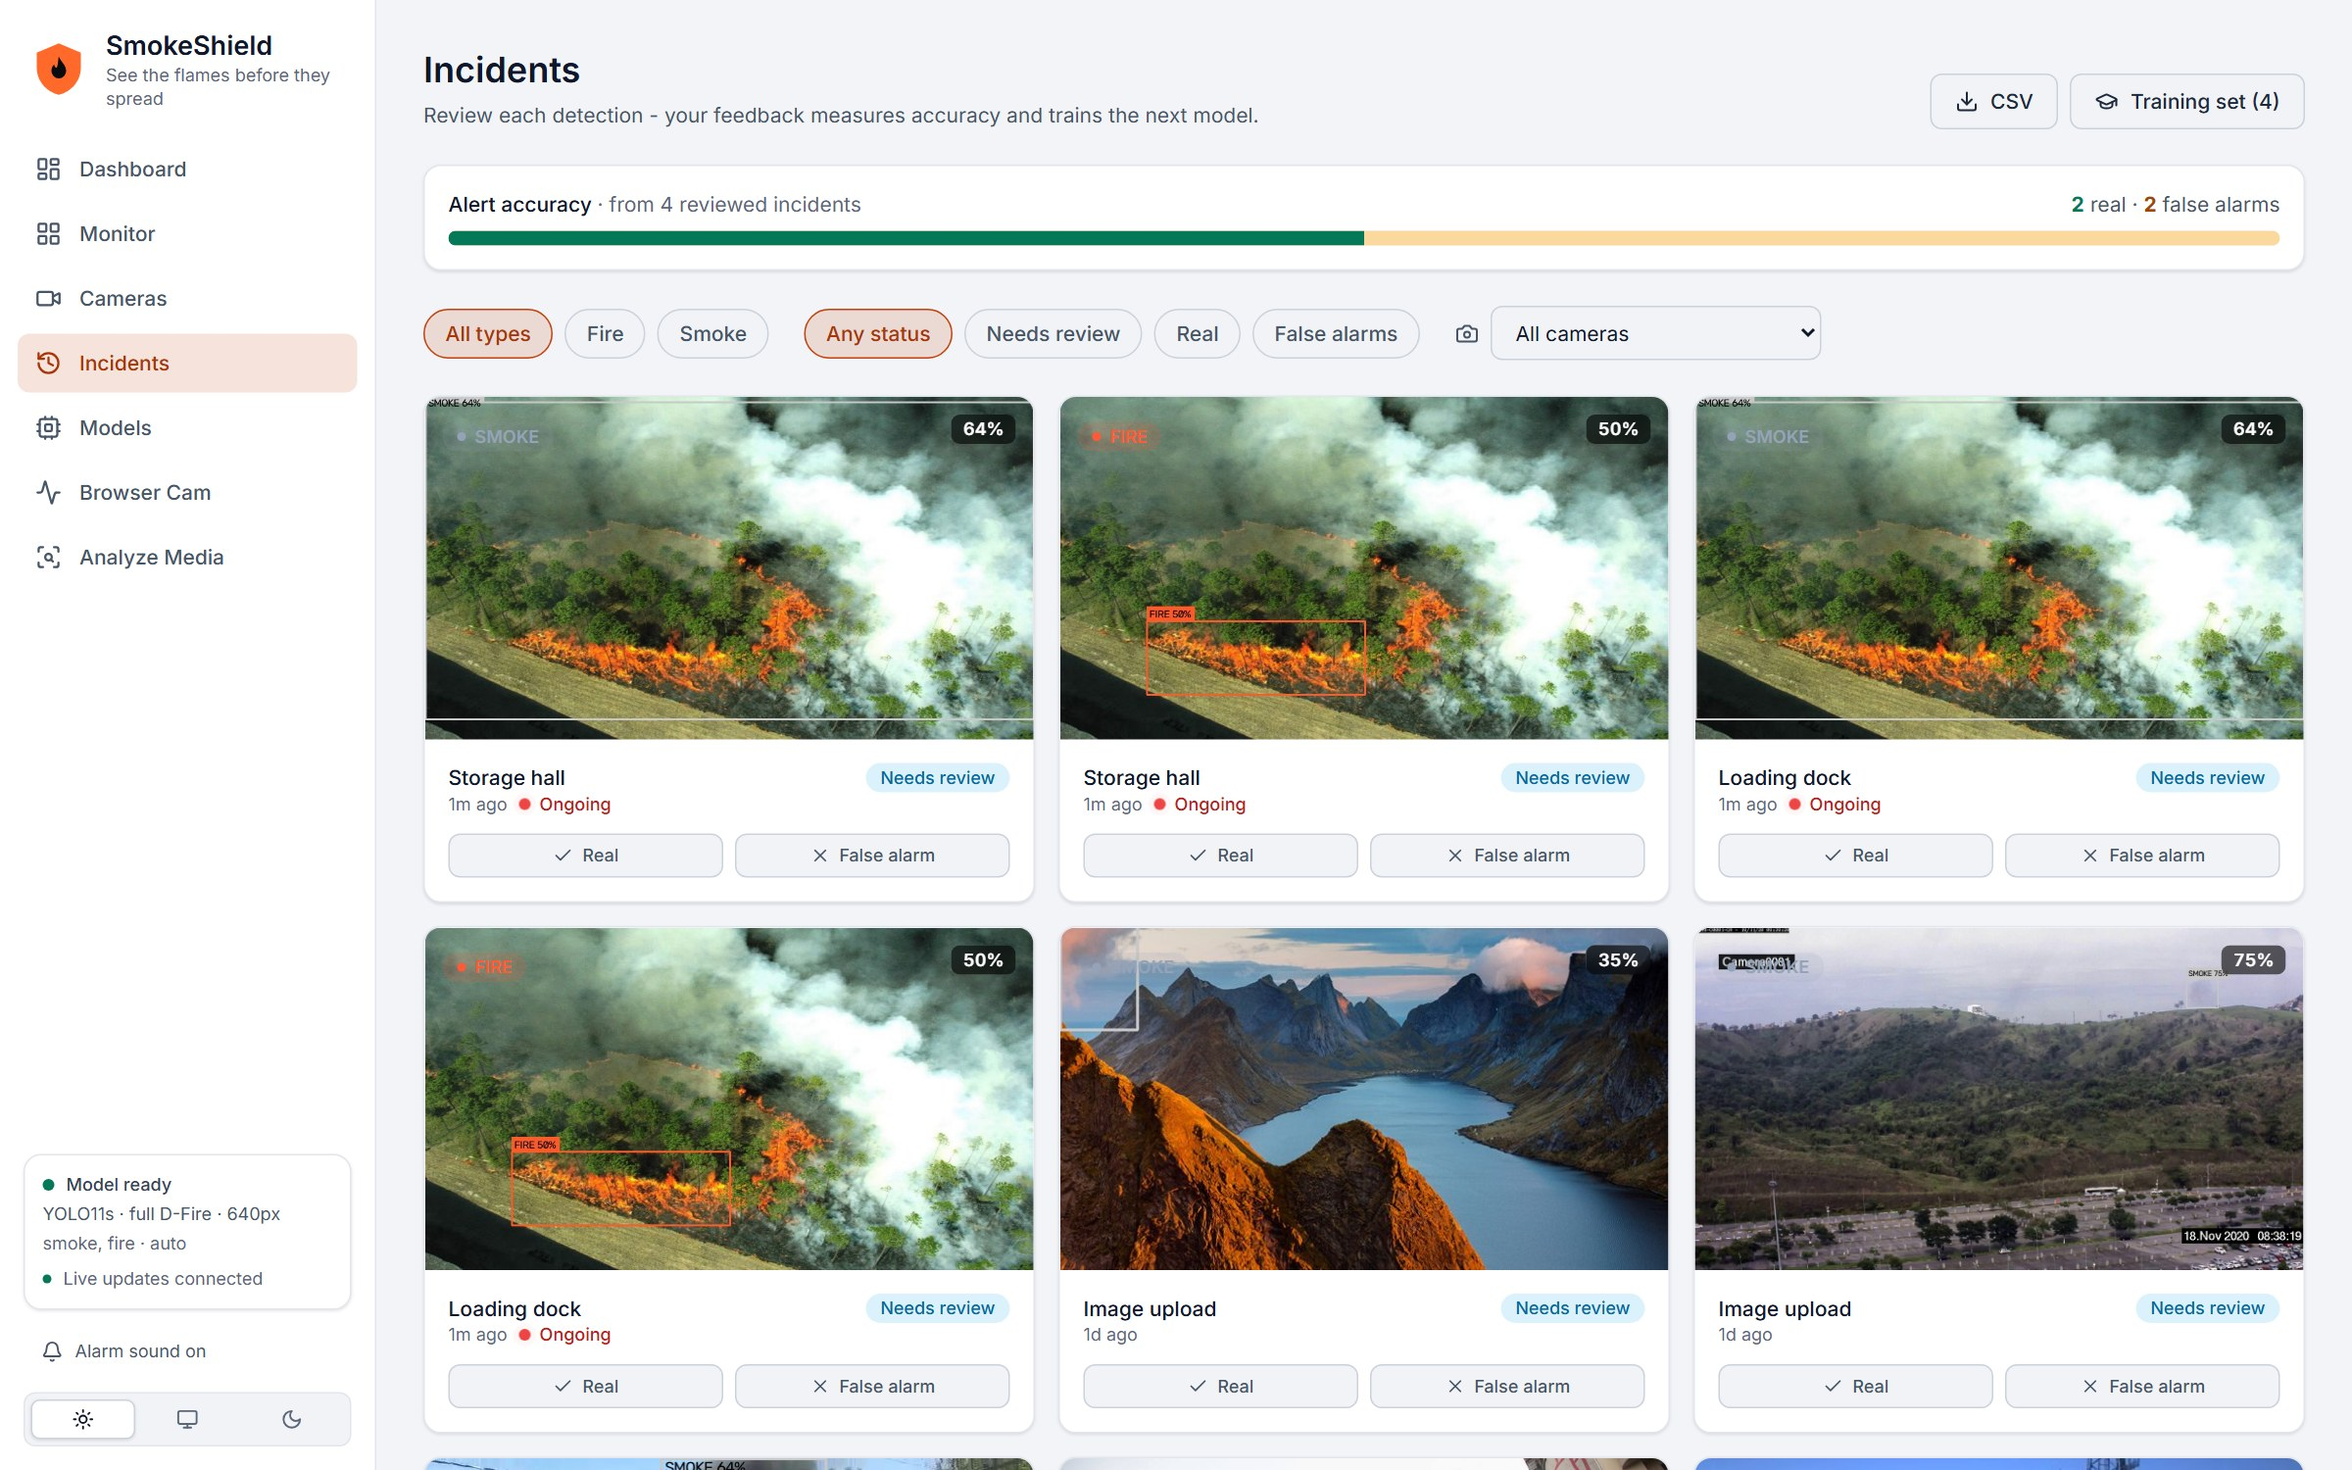
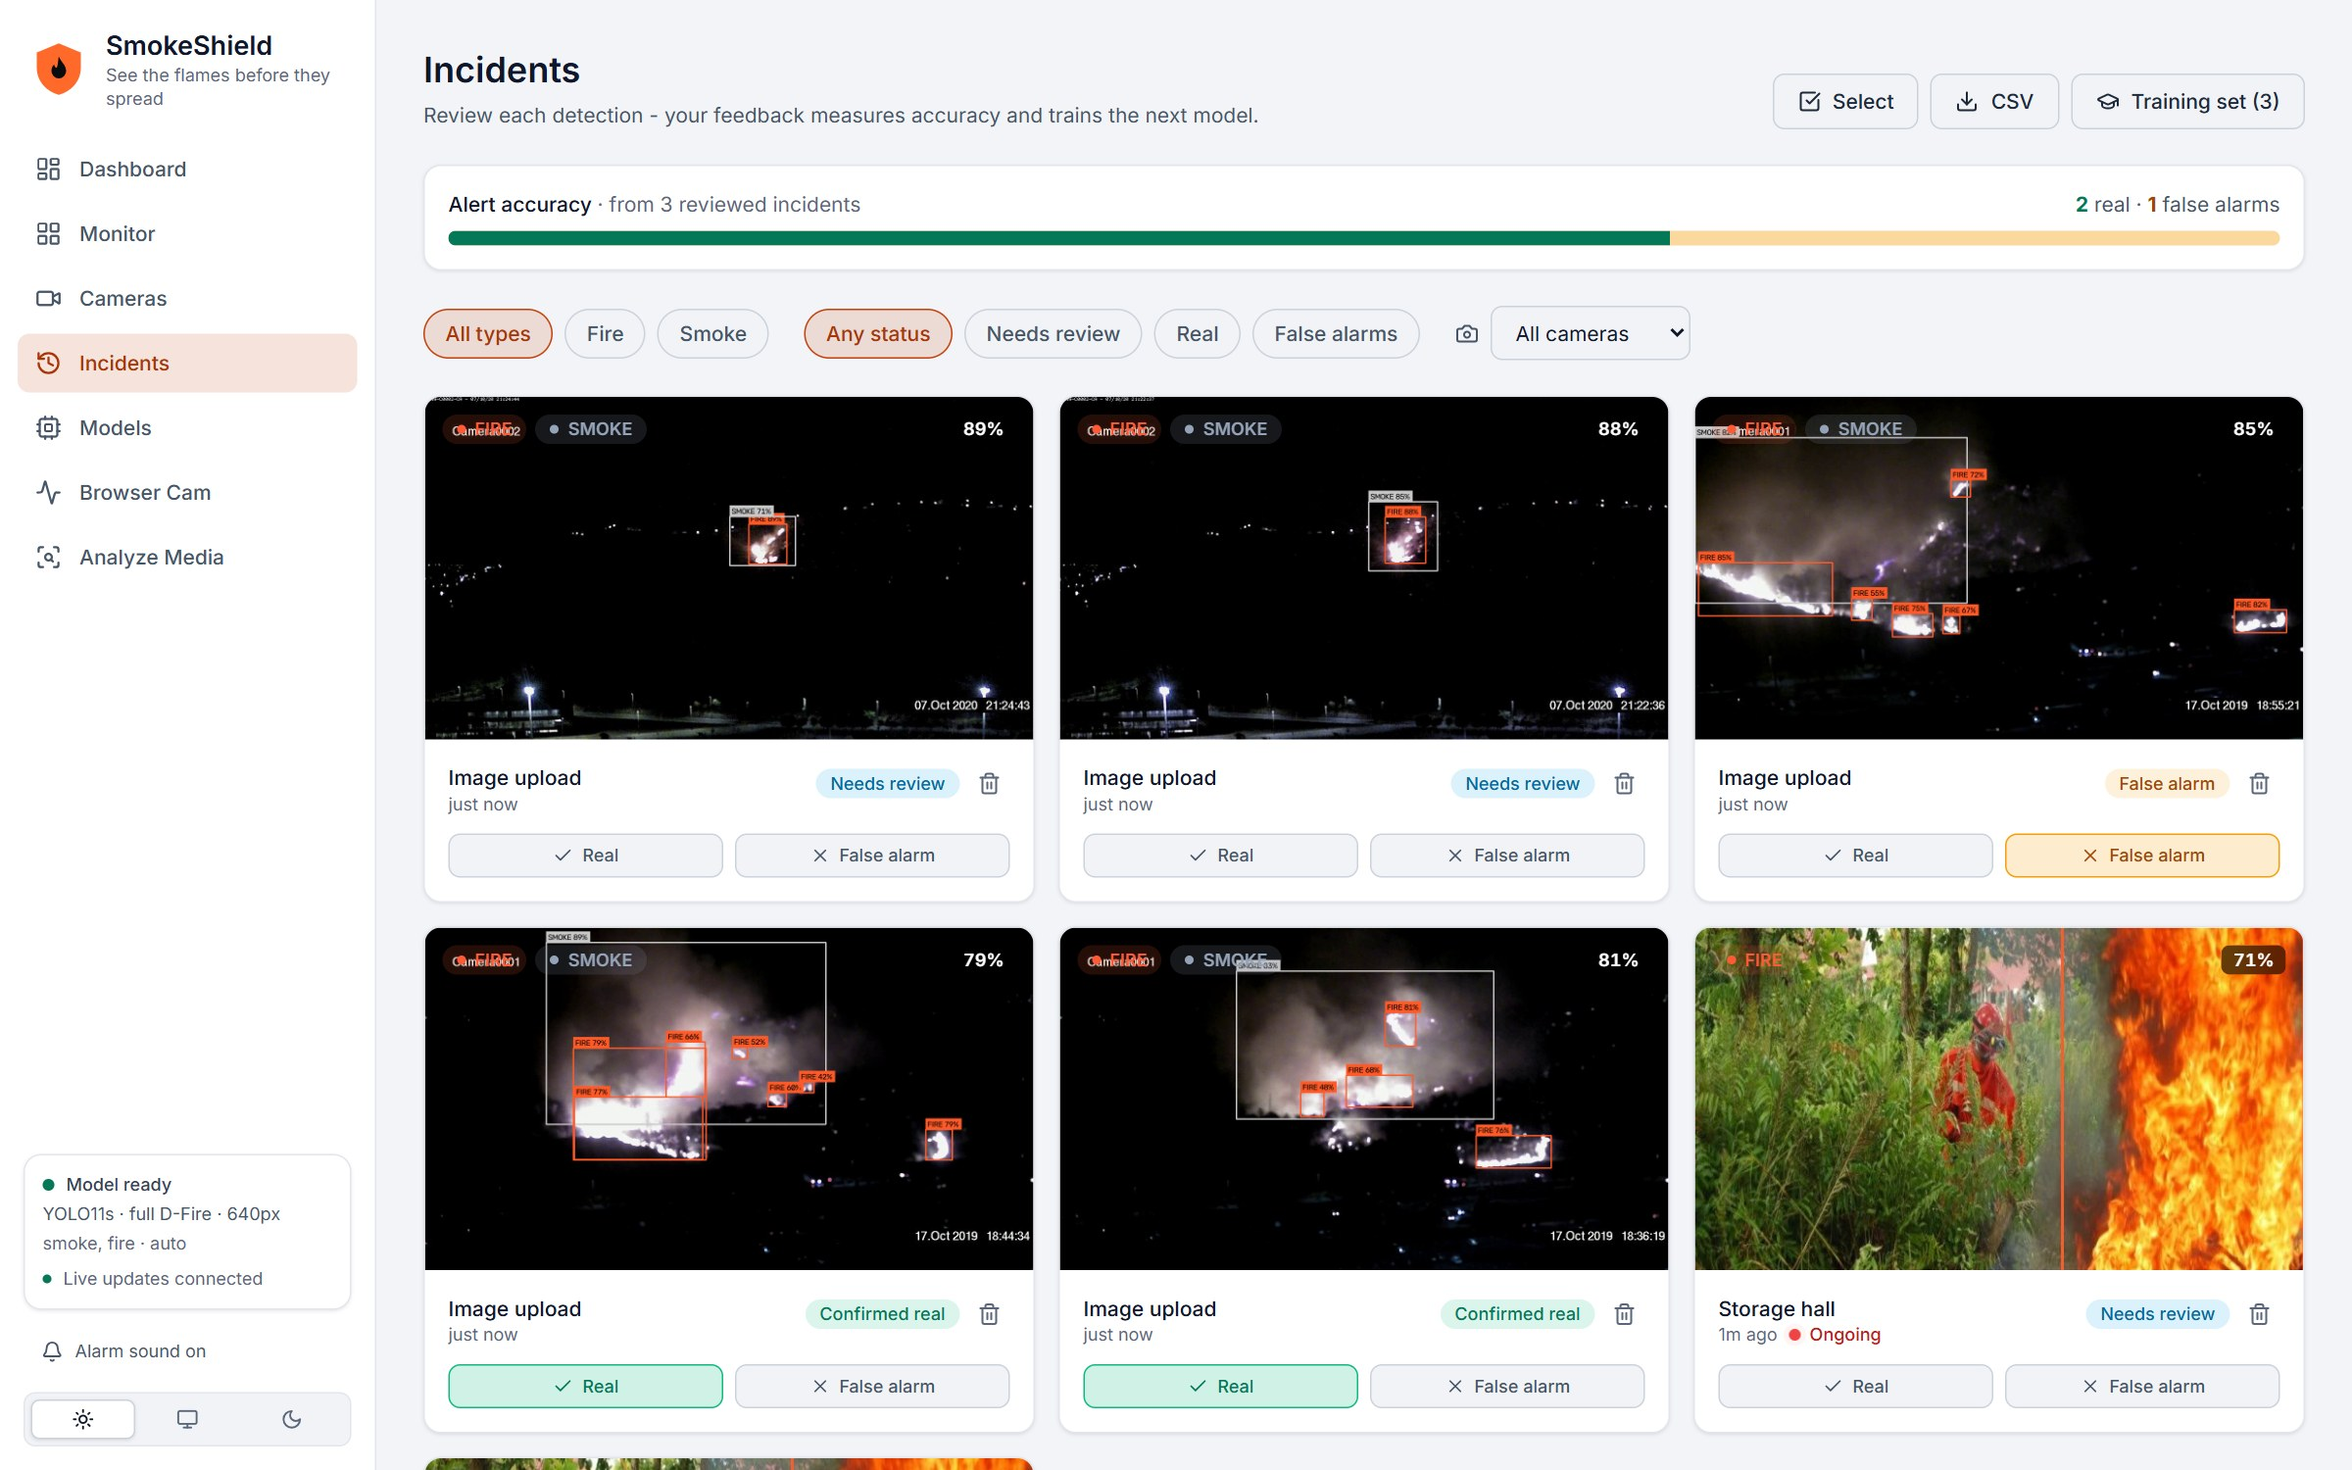
docs: add a screenshot gallery and document smoke sensitivity, ignored areas, one-incident-per-event and incident deletion

diff --git a/README.md b/README.md
@@ -2,6 +2,18 @@
 
 Real-time fire and smoke detection platform: a **FastAPI + Ultralytics YOLO** backend and a **React + TypeScript + Tailwind** dashboard.
 
+![Monitor: a live camera grid with a confirmed fire, the hazard banner and per-camera status](docs/screenshots/monitor-light.jpg)
+
+## Screenshots
+Every page is available in light and dark themes (a dark Monitor is shown below).
+
+| | |
+|---|---|
+| ![Dark Monitor](docs/screenshots/monitor-dark.jpg)<br>**Monitor** - live annotated cameras with status, FPS and latency, and a hazard banner when a fire or smoke is confirmed | ![Dashboard](docs/screenshots/dashboard-light.jpg)<br>**Dashboard** - totals, false-alarm rate, a 24-hour chart, camera health and the latest incidents |
+| ![Incidents](docs/screenshots/incidents-light.jpg)<br>**Incidents** - one card per event, with the best picture, how long it lasted and one-click *Real* / *False alarm* review | ![Selecting incidents to delete](docs/screenshots/incidents-select-light.jpg)<br>**Select and delete** - pick several incidents and remove them together; a flame and its smoke show as FIRE and SMOKE badges on one card |
+| ![Incident detail](docs/screenshots/incident-detail-light.jpg)<br>**Incident detail** - detections or the original frame, review, **Ignore this area** for a fixed false-alarm source, and delete | ![Camera settings](docs/screenshots/camera-form-light.jpg)<br>**Camera settings** - smoke sensitivity, detection zone and **ignored areas** drawn on a live preview |
+| ![Models](docs/screenshots/models-light.jpg)<br>**Models** - upload weights, compare accuracy and speed, hot-swap the live model, roll back | |
+
 ## Features
 **Monitoring**
 - **Multi-camera grid** – live annotated view of every camera with status (Monitoring / Smoke / Fire / Offline / Paused), FPS and latency, a pulsing alarm state, and a one-click expanded view
@@ -12,9 +24,13 @@ Real-time fire and smoke detection platform: a **FastAPI + Ultralytics YOLO** ba
 **Fewer false alarms**
 - **Stable alarms** – an alarm needs the hazard in *N of the last M frames* (default 3 of 5), so one-frame glitches never trigger; one very confident detection (75%+) confirms at once; and once on, the alarm and its last box stay for a few seconds after the last sighting, so a flickering flame does not blink on and off. Boxes seen but not yet confirmed show as an amber "Possible fire"
 - **Per-camera sensitivity** – confidence, confirmation window, detail level, merge window, with *Sensitive / Balanced / Strict / Close-range* presets
+- **Smoke sensitivity** – smoke is the class that shadows, steam and dust fool, so it has its own setting: *Same as fire*, *Stricter (60%)*, *Strict (70%)*, *Very strict (80%)* or *Off (fire only)*. Fire sensitivity is never affected, so small flames are still caught
+- **Ignored areas** – draw boxes on a live preview over a fixed false-alarm source such as a **ceiling-fan shadow**, a window or a TV; a detection that falls mostly inside a box is dropped, while a real fire next to it still alarms. The live feed shows ignored areas greyed out with a dashed outline
+- **One-click "Ignore this area"** – on an incident, turn its own boxes into an ignored area on that camera; the incident is filed as a false alarm, which also makes it a training example
 - **Detection zones** – draw a polygon on a live preview; detections outside it are ignored
-- **Incidents never get dropped** – a continuous or flickering hazard is ONE incident whose duration keeps growing; if it returns within the merge window it extends the same incident; a better frame replaces the snapshot; a failed write is retried on the next frame
+- **One incident per event** – a flame and the smoke around it are the same event, so they share ONE incident (filed as fire as soon as any fire is seen, even if smoke came first). A continuous or flickering hazard keeps extending that incident, and if it returns within the merge window it extends the same one rather than starting another. The incident keeps its single best picture, replaced in place when a clearer frame arrives, so the list shows one image per event. A failed write is retried on the next frame
 - **Incident review** – mark each incident *Real* or *False alarm*; the dashboard shows the false-alarm rate, and reviewed incidents export as a **YOLO training set** (real = boxes, false alarm = negative example) for retraining
+- **Delete incidents** – a trash icon on every card, or **Select** several and delete them together (with a confirmation that says how many). If an incident is deleted while its fire is still in view, the next sighting is recorded as a new incident instead of being silently lost
 
 **Model management**
 - **Model versions page** – upload new weights, see accuracy and CPU speed side by side, and compare each version against the live one (mAP change in points, "2.6x faster")
@@ -27,12 +43,13 @@ Real-time fire and smoke detection platform: a **FastAPI + Ultralytics YOLO** ba
 - **Browser Cam** – quick webcam test from the browser over WebSocket
 - **Dashboard** – animated metrics, 24-hour chart (in local time), camera health, recent incidents
 - **Light / Dark / System theme** – follows the OS live, remembers your choice, no flash on load, WCAG AA contrast in both themes
-- Light-weight SQLite database with automatic in-place migration, model health reporting, 79 automated tests
+- **Works on small screens** – dialogs never grow past the window: the title bar and the action buttons stay in view and only the form scrolls
+- Light-weight SQLite database with automatic in-place migration, model health reporting, 106 automated tests
 
 ## Architecture
 ```
                   ┌── CameraWorker (thread per camera) ──┐
-RTSP / file / USB ┤   grab → YOLO → zone → N-of-M check  ├─► incidents (SQLite + snapshots)
+RTSP / file / USB ┤   grab → YOLO → filters → N-of-M     ├─► one incident per event (SQLite + snapshots)
                   └──────────────┬───────────────────────┘
                                  │ shared, lock-protected model
 Browser (React) ◄─ REST (cameras, incidents, stats, latest frame)
@@ -127,7 +144,7 @@ Figures: [training curves](docs/model/results.png) · [confusion matrix](docs/mo
 |---|---|---|
 | GET | `/api/health` | model status, classes, device, cameras online |
 | GET/POST | `/api/cameras` | list / create a camera |
-| GET/PATCH/DELETE | `/api/cameras/{id}` | read / partially update / remove |
+| GET/PATCH/DELETE | `/api/cameras/{id}` | read / partially update / remove. Besides the basics, a camera has `zone`, `detect_smoke`, `smoke_confidence` (stricter bar for smoke only) and `ignore_areas` (up to 16 `[x1, y1, x2, y2]` boxes, normalised 0..1) |
 | GET | `/api/cameras/status` | live state of every camera |
 | GET | `/api/cameras/{id}/frame` | latest annotated frame (JPEG, 204 if none yet) |
 | GET | `/api/cameras/{id}/snapshot` | clean frame, used by the zone editor |
@@ -137,6 +154,7 @@ Figures: [training curves](docs/model/results.png) · [confusion matrix](docs/mo
 | PATCH | `/api/incidents/{id}/review` | `{"status": "real" \| "false_alarm" \| "new"}` |
 | GET | `/api/incidents/export/training` | reviewed incidents as a YOLO dataset (zip) |
 | DELETE | `/api/incidents/{id}` | remove incident + snapshots |
+| POST | `/api/incidents/bulk-delete` | `{"ids": [...]}` (1-500) remove several at once; unknown ids are skipped; returns `{"deleted": n}` |
 | GET | `/api/stats` | totals, hourly buckets, review metrics, camera counts |
 | GET | `/api/models` | registered model versions with accuracy, speed and which one is live |
 | POST | `/api/models` | upload weights (multipart `file`, `name`, optional `notes` and metrics as fractions); validated, not activated |
@@ -156,8 +174,20 @@ Figures: [training curves](docs/model/results.png) · [confusion matrix](docs/mo
 | Sensitive | 30% | 2 of 3 frames | kitchens, labs - miss nothing |
 | Balanced | 40% | 3 of 5 frames | offices, warehouses |
 | Strict | 55% | 4 of 6 frames | outdoors, steam / dust / headlights |
+| Close-range | 25% | 2 of 4 frames, 960 px | lighter, match, candle (see *Small flames* below) |
 
 At the default 4 inferences per second, "3 of 5" confirms a real fire in about 0.75 s at full speed (a single detection of 75%+ confirms immediately). Change the rate with `SMOKESHIELD_WORKER_FPS`.
+
+### Shadows, steam and other smoke look-alikes
+A moving grey patch, such as the shadow of a **ceiling fan** on a wall, looks a lot like smoke to the model, and smoke is its weaker class. Lowering the confidence for small flames (the Close-range preset) loosens the smoke bar too, and a fan shadow never goes away, so asking for more frames in a row does not help. Three tools, from quickest to most thorough:
+
+| Tool | What it does | Use when |
+|---|---|---|
+| **Ignore this area** (button on an incident) | turns that incident's boxes into an ignored area on its camera and files it as a false alarm | the false alarm always appears in the same place |
+| **Ignored areas** (camera settings) | detections mostly inside a drawn box are dropped; anything else is still watched | a fixed source: fan shadow, window, TV, reflective sign |
+| **Smoke sensitivity** (camera settings) | holds smoke alone to 60 / 70 / 80% confidence, or switches it off | steam, dust or shadows that move around; fire sensitivity is unchanged |
+
+Keep ignored areas tight: a real fire or smoke inside one is ignored too. The lasting fix is data: every incident you mark **False alarm** is exported as a negative example in the training set, so retraining on a few dozen fan-shadow frames teaches the model to stop seeing them.
 
 ### Small flames: lighters, matches, candles
 The model was trained on D-Fire, mostly surveillance-style fires. Half of its training flames fill **under 0.5% of the frame**, and a lighter flame is in that range, so it is the hardest case. Measured on held-out images with the live model:
@@ -178,21 +208,21 @@ What the app does about it: the **Detail level** setting gives the model more pi
 ```bash
 cd backend && pytest
 ```
-79 tests cover the alarm tracker (hysteresis, hold-over, instant path), incident episodes (merge, extend, retry), zones, camera CRUD and validation, a video-file camera end to end (upload → worker → confirmed fire → incident), review and export, migration of old databases, and the model registry (upload rules, hot swap, rollback, failed activation keeping the current model, exact class matching, cache headers). They use a fake detector and a temporary data folder, so they need no PyTorch, weights or real data.
+106 tests cover the alarm tracker (hysteresis, hold-over, instant path), incident episodes (one incident per event, flame plus smoke, smoke-then-fire upgrade, merge, extend, retry), single and bulk delete (including a fire that is still in view when its incident is deleted), zones, ignored areas and the smoke filters, camera CRUD and validation, a video-file camera end to end (upload → worker → confirmed fire → incident), review and export, migration of old databases, and the model registry (upload rules, hot swap, rollback, failed activation keeping the current model, exact class matching, cache headers). They use a fake detector and a temporary data folder, so they need no PyTorch, weights or real data.
 
 ## Project layout
 ```
 backend/
   app/
     api/        one router per area: cameras, incidents, stats, detect, events, health
-    services/   detector, camera_worker, camera_manager, model_manager, model_registry, confirmation (alarm tracker), episodes, zones, incidents, imaging
+    services/   detector, camera_worker, camera_manager, model_manager, model_registry, confirmation (alarm tracker), episodes, zones (zone, ignored-area and smoke filters), incidents, imaging
     schemas/    request / response models
     db/         SQLAlchemy models, session, in-place migration
     config.py   main.py
   tests/  train.py  prepare_dataset.py
 frontend/src/
   pages/        Dashboard, Monitor, Cameras, Incidents, Models, LiveMonitor, Analyze
-  components/   Modal, Toast, StatusPill, Switch, Skeleton, ... plus cameras/ (tile, form, zone editor) and models/ (cards, upload form)
+  components/   Modal, Toast, StatusPill, Switch, Skeleton, ... plus cameras/ (tile, form, zone and ignored-area editors) and models/ (cards, upload form)
   hooks/        useEvents (shared WebSocket), useCameras, useFramePoll, useTheme
   lib/          api client, alarm sound
 ```
@@ -213,4 +243,4 @@ Colors are CSS-variable tokens in `frontend/src/index.css` (`:root` = light, `.d
 There is no login yet, so run it on a trusted network. **Model uploads deserve extra care:** PyTorch `.pt` files can execute code when loaded, so anyone who can reach the API could run code on the server by uploading a crafted file. Only expose the app to people you trust, or set `SMOKESHIELD_MODEL_UPLOAD_ENABLED=false` (models already in `backend/models/` are still registered and can be switched). Camera URLs may point at private IPs by design (LAN cameras); only `rtsp`, `rtsps`, `rtmp`, `http`, `https` schemes are accepted. Stream passwords are stored in the local SQLite file in plain text and masked in API responses.
 
 ## Ideas to extend
-Telegram / e-mail / SMS alerts, login with roles, incident video clips, model-version management, ONNX / OpenVINO export for edge devices.
+Telegram / e-mail / SMS alerts, login with roles (delete and camera settings should be admin-only), incident video clips, a "merge duplicates" action for older incidents, ONNX / OpenVINO export for edge devices.
